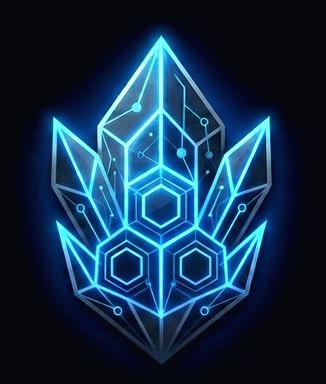
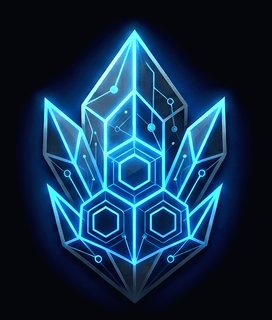
Le mot-symbole et le cristal, agrandis puis tailles pour l usage
Les deux venaient d une decoupe dans un JPEG, agrandie deux fois par
interpolation : le nom du studio etait visiblement flou. Ils passent
desormais par Upscayl, modele digital-art-4x — celui pour les aplats aux
bords francs, la ou un modele photo inventerait du grain.

Les sources agrandies en 4x restent des masters dans le depot de
Synaptika. Le site, lui, recoit des copies taillees pour son usage reel :
un cristal de 768 px de haut pour un affichage de 74 px pesait un demi
megaoctet pour rien. Il en fait 33 Ko, le mot-symbole 19 Ko.

diff --git a/index.html b/index.html
@@ -11,9 +11,9 @@
     <main>
       <header class="bandeau">
         <img class="bandeau__mot" src="/assets/crystalize-mot.png"
-             alt="Crystalize Studio" width="1260" height="300" />
+             alt="Crystalize Studio" width="800" height="190" />
         <img class="bandeau__marque" src="/assets/crystalize.png"
-             alt="" width="326" height="384" />
+             alt="" width="272" height="320" />
       </header>
 
       <h1>Une idée<br />n'a pas d'arêtes.<br />Nous lui en donnons.</h1>
